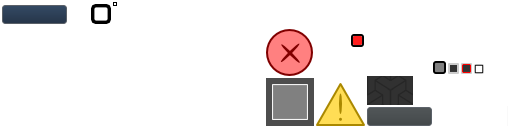
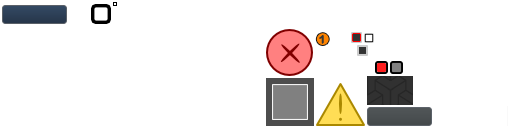
Adding support for setting the initial scene on the scene elements list

diff --git a/editor/core/src/main/java/es/eucm/ead/editor/view/builders/classic/ScenesList.java b/editor/core/src/main/java/es/eucm/ead/editor/view/builders/classic/ScenesList.java
@@ -39,13 +39,20 @@ package es.eucm.ead.editor.view.builders.classic;
 import com.badlogic.gdx.graphics.Color;
 import com.badlogic.gdx.scenes.scene2d.Actor;
 import com.badlogic.gdx.scenes.scene2d.Touchable;
+import com.badlogic.gdx.scenes.scene2d.ui.Image;
 import com.badlogic.gdx.scenes.scene2d.ui.Label;
 import com.badlogic.gdx.scenes.scene2d.ui.ScrollPane;
 import com.badlogic.gdx.scenes.scene2d.ui.Skin;
 import com.badlogic.gdx.scenes.scene2d.utils.Align;
 
 import es.eucm.ead.editor.control.Controller;
+import es.eucm.ead.editor.control.actions.AddScene;
 import es.eucm.ead.editor.control.actions.EditScene;
+import es.eucm.ead.editor.control.actions.InitialScene;
+import es.eucm.ead.editor.model.Model;
+import es.eucm.ead.editor.model.events.FieldEvent;
+import es.eucm.ead.editor.model.events.ListEvent;
+import es.eucm.ead.editor.view.builders.ContextMenuBuilder;
 import es.eucm.ead.editor.view.listeners.ActionOnClickListener;
 import es.eucm.ead.editor.view.widgets.AbstractWidget;
 import es.eucm.ead.editor.view.widgets.ToggleImageButton;
@@ -110,7 +117,14 @@ public class ScenesList extends AbstractWidget {
 
 		private Label label;
 
+        private String sceneName;
+
+        // A simple icon that is displayed on the scene that is the initial one
+        private Image initialSceneIcon;
+        private boolean isInitialScene;
+
 		public SceneWidget(String scene) {
+            sceneName = scene;
 			button = new ToggleImageButton(skin.getDrawable("blank"), skin);
 			button.addListener(new ActionOnClickListener(controller,
 					EditScene.NAME, scene));
@@ -119,7 +133,41 @@ public class ScenesList extends AbstractWidget {
 			label.setAlignment(Align.center);
 			label.setWrap(true);
 			label.setTouchable(Touchable.disabled);
-			addActor(button);
+
+            // Create the icon for marking the initial scene
+            initialSceneIcon = new Image(skin.getDrawable("initialscene"));
+            // If this is the initial scene, add the icon as an actor
+            if (controller.getModel().getGame().getInitialScene().equals(sceneName)){
+                addActor(initialSceneIcon);
+                isInitialScene = true;
+            }
+
+            // Adding the listener that is notified whenever the initial scene changes.
+            controller.getModel().addFieldListener(controller.getModel().getGame(), new Model.FieldListener() {
+                @Override
+                public boolean listenToField(String fieldName) {
+                    return InitialScene.NAME.equals(fieldName);
+                }
+
+                @Override
+                public void modelChanged(FieldEvent event) {
+                    if (InitialScene.NAME.equals(event.getField())){
+                        if (controller.getModel().getGame().getInitialScene().equals(sceneName) && !isInitialScene){
+                            addActor(initialSceneIcon);
+                            isInitialScene = true;
+                        }
+                        else if (!controller.getModel().getGame().getInitialScene().equals(sceneName) && isInitialScene){
+                            removeActor(initialSceneIcon);
+                            isInitialScene = false;
+                        }
+                    }
+                }
+            });
+
+            // Add the context menu to this widget's children
+            buildSceneContextMenu(scene, button, label, initialSceneIcon);
+
+    		addActor(button);
 			addActor(label);
 		}
 
@@ -138,6 +186,32 @@ public class ScenesList extends AbstractWidget {
 			setBounds(button, 0, 0, getWidth(), getHeight());
 			setPosition(label, getWidth() / 2.0f, getHeight() / 2.0f);
 		}
-	}
+
+        /**
+         * Creates a contextual menu with all the actions related to a particular scene:
+         * - Setting the scene selected as the initial one
+         *
+         * And also, allows:
+         *
+         * - Adding a new scene
+         *
+         * @param sceneName The name of the current scene (e.g. "scene1")
+         * @param actors    A list of actors that should display this context menu. The list is iterated and the context menu
+         *                  is registered for all of them
+         * @return  The context menu created
+         */
+        private ContextMenuBuilder.Builder buildSceneContextMenu(String sceneName, Actor... actors){
+            ContextMenuBuilder.Builder sceneContextMenu = new ContextMenuBuilder(
+                    controller).build();
+            sceneContextMenu.item(controller.getEditorAssets().getI18N().m("scene.add"), AddScene.NAME);
+            sceneContextMenu.item(controller.getEditorAssets().getI18N().m("scene.initial"), InitialScene.NAME, sceneName);
+            for (Actor actor:actors){
+                controller.getViews().registerContextMenu(actor,
+                        sceneContextMenu.done());
+            }
+            return sceneContextMenu;
+        }
+
+    }
 
 }

diff --git a/editor/core/src/main/java/es/eucm/ead/editor/control/actions/InitialScene.java b/editor/core/src/main/java/es/eucm/ead/editor/control/actions/InitialScene.java
@@ -1,0 +1,61 @@
+/**
+ * eAdventure is a research project of the
+ *    e-UCM research group.
+ *
+ *    Copyright 2005-2013 e-UCM research group.
+ *
+ *    You can access a list of all the contributors to eAdventure at:
+ *          http://e-adventure.e-ucm.es/contributors
+ *
+ *    e-UCM is a research group of the Department of Software Engineering
+ *          and Artificial Intelligence at the Complutense University of Madrid
+ *          (School of Computer Science).
+ *
+ *          C Profesor Jose Garcia Santesmases sn,
+ *          28040 Madrid (Madrid), Spain.
+ *
+ *          For more info please visit:  <http://e-adventure.e-ucm.es> or
+ *          <http://www.e-ucm.es>
+ *
+ * ****************************************************************************
+ *
+ *  This file is part of eAdventure
+ *
+ *      eAdventure is free software: you can redistribute it and/or modify
+ *      it under the terms of the GNU Lesser General Public License as published by
+ *      the Free Software Foundation, either version 3 of the License, or
+ *      (at your option) any later version.
+ *
+ *      eAdventure is distributed in the hope that it will be useful,
+ *      but WITHOUT ANY WARRANTY; without even the implied warranty of
+ *      MERCHANTABILITY or FITNESS FOR A PARTICULAR PURPOSE.  See the
+ *      GNU Lesser General Public License for more details.
+ *
+ *      You should have received a copy of the GNU Lesser General Public License
+ *      along with eAdventure.  If not, see <http://www.gnu.org/licenses/>.
+ */
+package es.eucm.ead.editor.control.actions;
+
+import es.eucm.ead.editor.control.commands.FieldCommand;
+
+/**
+ * Action that changes the initial scene of the game (the first scene to be launched).
+ *
+ * The name of the new initial scene (e.g. "scene0") is provided as argument 0 (arg[0])
+ *
+ * Created by Javier Torrente on 3/03/14.
+ */
+public class InitialScene extends EditorAction {
+    public static final String NAME="initialScene";
+
+    public InitialScene(){
+        super(NAME);
+    }
+
+    @Override
+    public void perform(Object... args) {
+        if (!controller.getModel().getGame().getInitialScene().equals(args[0])){
+            controller.command(new FieldCommand(controller.getModel().getGame(), NAME, args[0], false));
+        }
+    }
+}

diff --git a/editor/core/src/main/java/es/eucm/ead/editor/control/Actions.java b/editor/core/src/main/java/es/eucm/ead/editor/control/Actions.java
@@ -74,6 +74,7 @@ public class Actions {
 		addAction(new Undo());
 		addAction(new Redo());
 		addAction(new Save());
+        addAction(new InitialScene());
 		addAction(new EditScene());
 		addAction(new AddScene());
 		addAction(new AddSceneElement());
